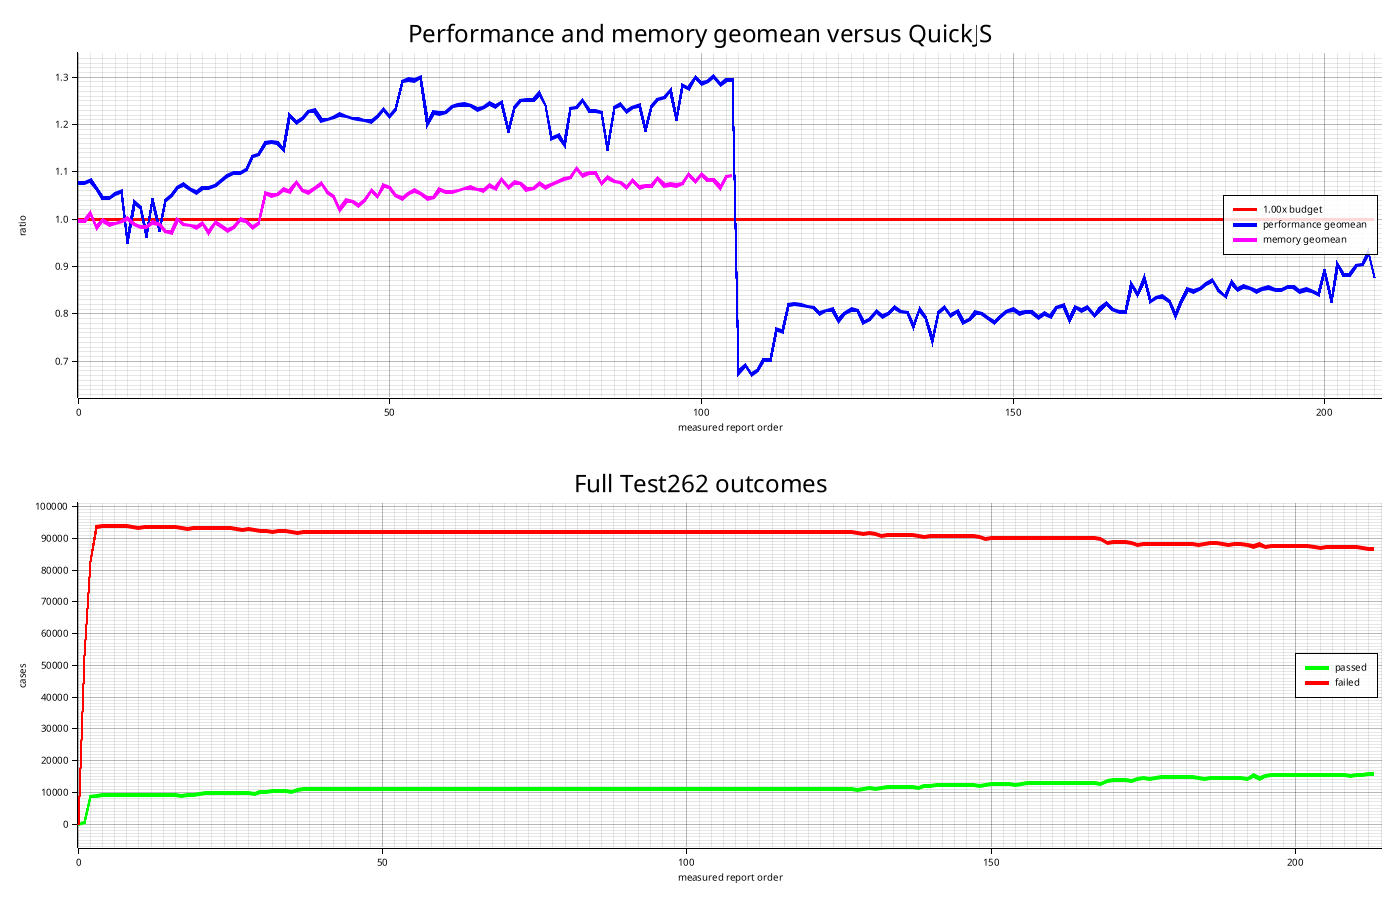
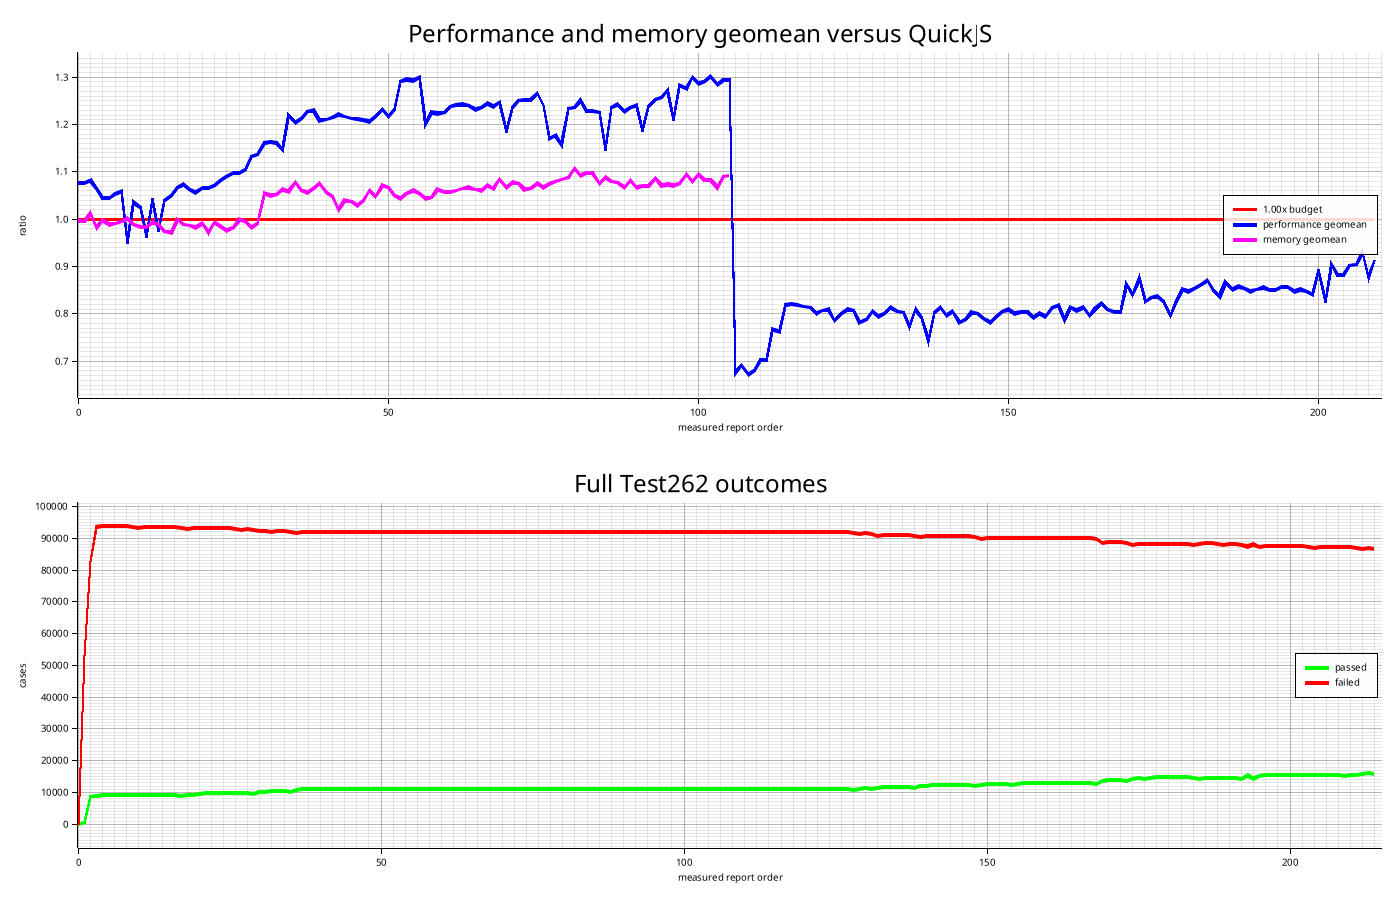
Refresh benchmark rollup after template run

diff --git a/reports/benchmark-rollup.md b/reports/benchmark-rollup.md
@@ -16,11 +16,11 @@ Artifacts:
 
 Latest report:
 
-- `rsqjs-test-report-20260707T124717Z.md`
-- Task: rsqjs-test-report-20260707T124717Z.md
-- Performance: 0.88x (43/63 >1.00x)
+- `rsqjs-test-report-20260707T170626Z.md`
+- Task: rsqjs-test-report-20260707T170626Z.md
+- Performance: 0.91x (43/63 >1.00x)
 - Memory: - (0/63 >1.00x)
-- Full Test262: 15827 passed / 86751 failed (15.43%)
+- Full Test262: 15865 passed / 86713 failed (15.47%)
 
 | PR / task | Performance | Memory | Full Test262 |
 | --- | ---: | ---: | ---: |
@@ -291,4 +291,5 @@ Latest report:
 | `20260707T120837Z` `ff28afa` Support TDZ-aware parameter defaults | 0.90x (42/63 >1.00x) | - (0/63 >1.00x) | 15528 passed / 87050 failed (15.14%) |
 | `20260707T121815Z` `450271b` Add direct native targets for eval and bind | 0.90x (43/63 >1.00x) | - (0/63 >1.00x) | 15528 passed / 87050 failed (15.14%) |
 | `20260707T123138Z` `97a74f4` Support Test262 string type semantics | 0.93x (43/63 >1.00x) | - (0/63 >1.00x) | 15827 passed / 86751 failed (15.43%) |
-| `20260707T124717Z` rsqjs-test-report-20260707T124717Z.md | 0.88x (43/63 >1.00x) | - (0/63 >1.00x) | 15827 passed / 86751 failed (15.43%) |
+| `20260707T124717Z` `567e509` Use contiguous packed array storage | 0.88x (43/63 >1.00x) | - (0/63 >1.00x) | 15827 passed / 86751 failed (15.43%) |
+| `20260707T170626Z` rsqjs-test-report-20260707T170626Z.md | 0.91x (43/63 >1.00x) | - (0/63 >1.00x) | 15865 passed / 86713 failed (15.47%) |